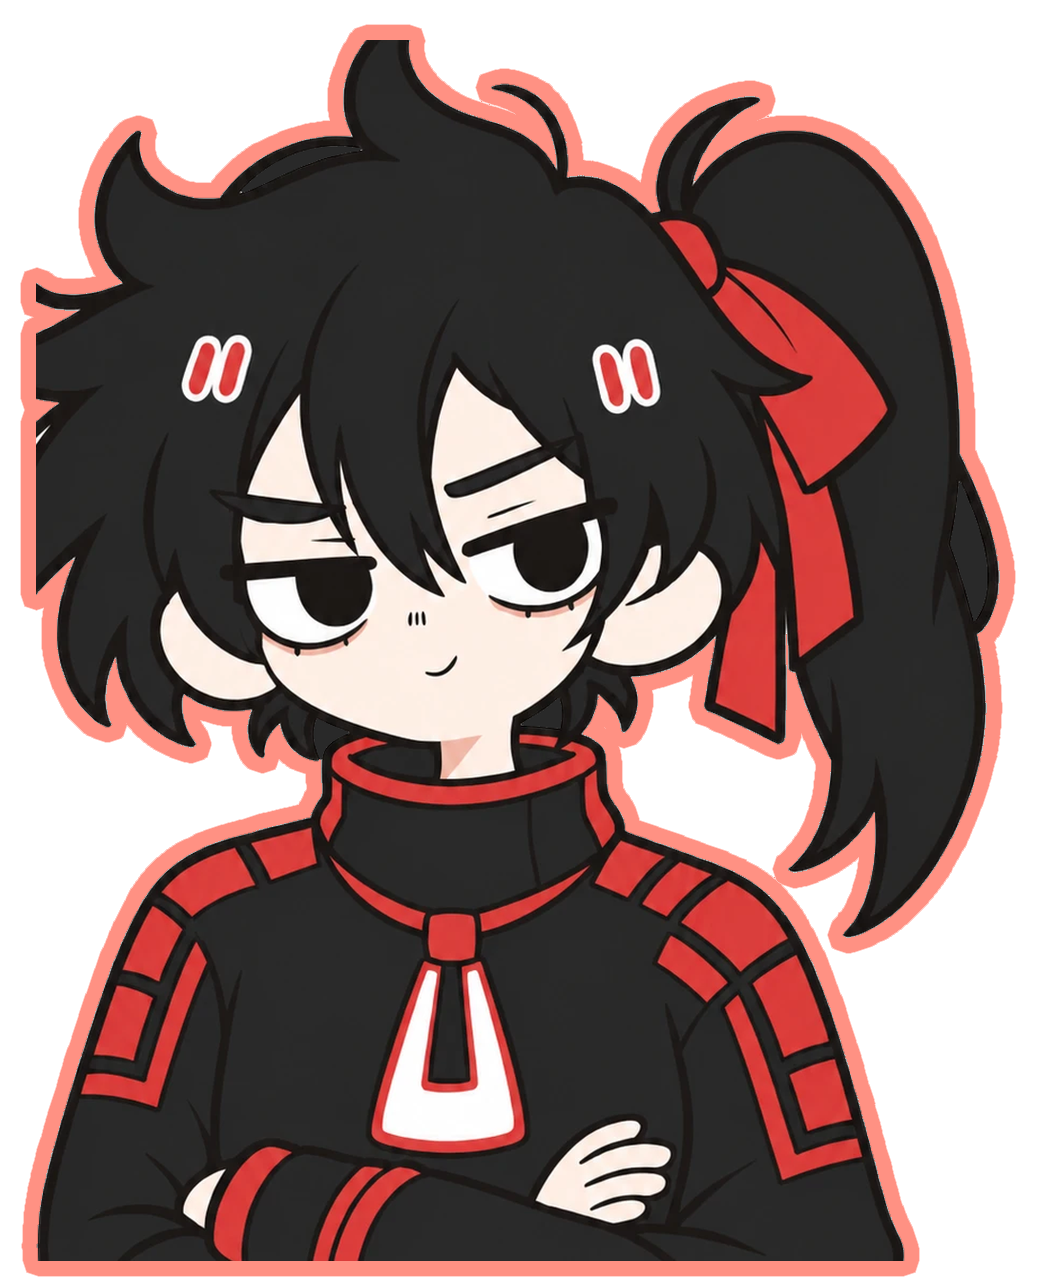
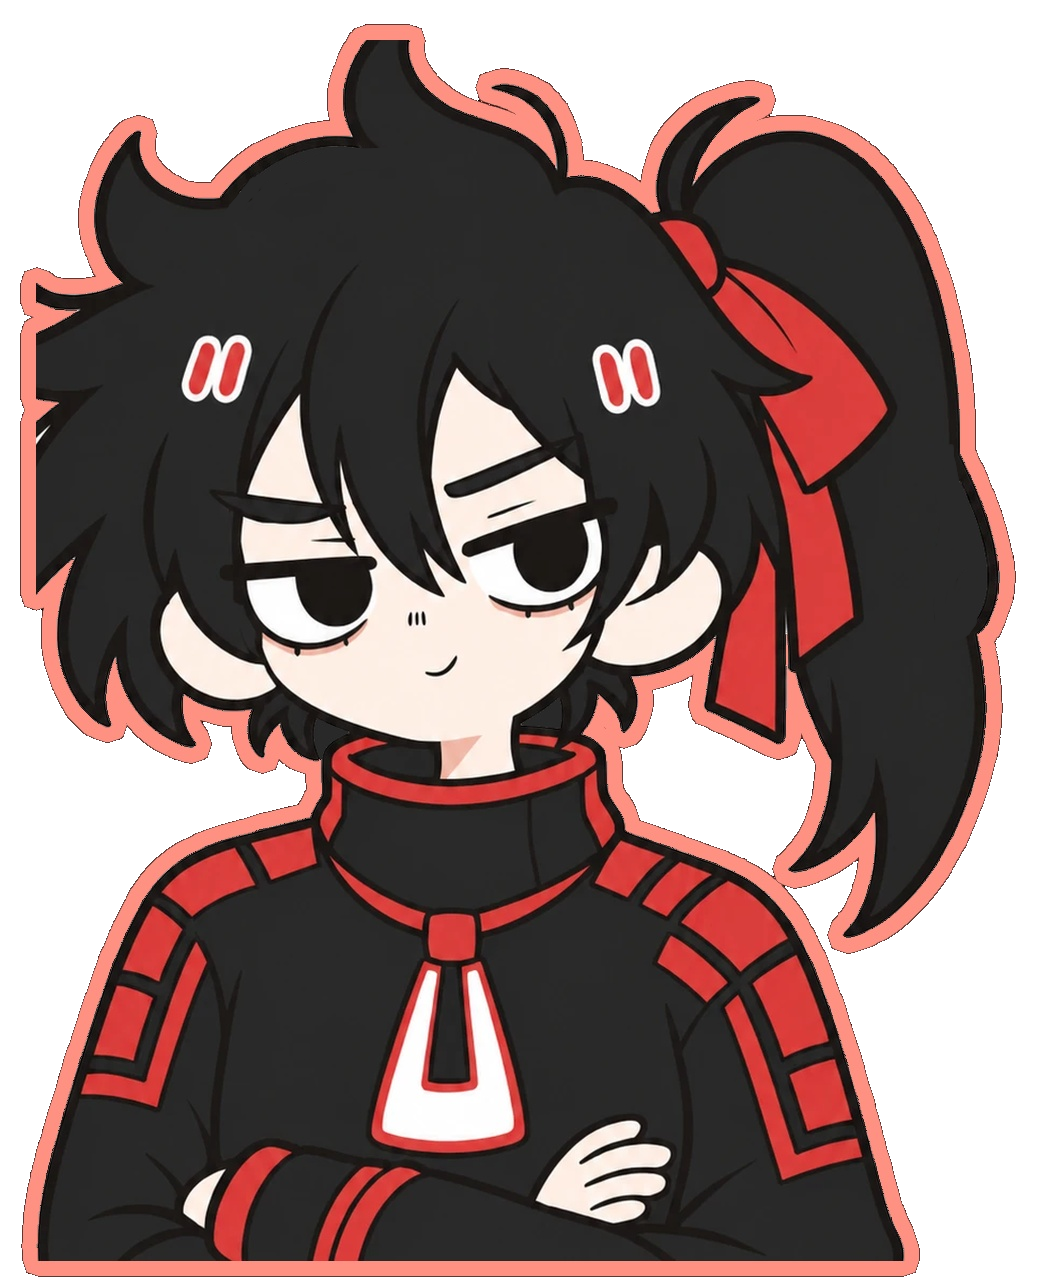
feat: UI 5종 · 앨범 6장 · 초상화 4장 교체 + 9번 진열장 회수
UI — Paper/Wood 를 Hud.Panel 에 꽂았다. 그 한 함수를 지나가는 모든 패널이
한꺼번에 바뀐다(레이스·로비·캠퍼스·조작법·완주·단서). 그림이 없으면 예전처럼
단색으로 떨어지니 파일을 빼도 안 깨진다.

- 곰 발바닥 칩 + 손글씨 종이 카드 + 곰 귀를 Hud 에 모았다. 세 HUD 가 같은 칩과
  같은 카드를 그리니 한 군데에 둬야 셋이 같이 바뀐다
- 발바닥은 마우스로도 눌린다 — 키만 있으면 안 눌러본 사람에겐 없는 기능이다
  (G·TAB 에서 두 번 겪은 실수)
- Remote3(녹슨 버전)을 지웠다. Resources 는 쓰든 안 쓰든 빌드에 다 들어간다

초상화 — 이감 셋 + 세운 당황. 1050×1280 · 0.8203 · 크롭/테두리는 이미 돼 있어
검은 배경만 투명으로. 포니테일 아래 갇힌 검은 주머니(21k px)도 같이 지웠다.
선화는 얇아서(fill < 0.3) 안 걸린다.

앨범 — 여섯 장 1024×1112(0.92). 짝수라 펼침면 셋으로 딱 맞는다.

9번 진열장 — 제작자 결정으로 남기고 에필로그에 여섯 줄로 회수한다.
안에 무엇이 있었는지는 적지 않고 칸이 왜 비어 있는지까지만 — 관장이
프롤로그에서 「이따가 얘기하자」로 피하던 것과 같은 사람이고, 앨범의
〈01_빈자리〉 그림이 같은 말을 한다.

Changed region(s): [[0.4571, 0.0625, 0.4876, 0.0938]]

diff --git a/Assets/Scripts/Hud.cs b/Assets/Scripts/Hud.cs
@@ -71,9 +71,13 @@ public static class Hud
         builtWith = font;
         built = true;
 
-        WoodTex     = Solid(Wood);
+        // ★★ 2026-10-12 — <b>그림이 있으면 그걸 쓴다.</b> 없으면 예전처럼 단색 한 점으로
+        //   떨어진다 — 파일을 빼도 HUD 가 안 깨진다.
+        //   이 두 줄이 <see cref="Panel"/> 을 지나는 <b>모든 패널</b>을 한꺼번에 바꾼다 —
+        //   레이스·로비·캐퍼스·조작법·완주·단서 카드까지.
+        WoodTex     = Resources.Load<Texture2D>("UI/Wood")  ?? Solid(Wood);
         WoodDarkTex = Solid(WoodDark);
-        PaperTex    = Solid(Paper);
+        PaperTex    = Resources.Load<Texture2D>("UI/Paper") ?? Solid(Paper);
         BrassTex    = Solid(Brass);
         RibbonTex   = Solid(Ribbon);
 
@@ -207,6 +211,80 @@ public static class Hud
         GUI.DrawTexture(r, PaperTex);
         GUI.DrawTexture(new Rect(r.x, r.yMax - 2f, r.width, 2f), WoodDarkTex);
     }
+
+    // ── 곤 발바닥 버튼·손글씨 종이·곤 귀 ─────────────────────────────────
+    //
+    //  ★★ 2026-10-12 — 세 HUD 가 <b>같은 칩과 같은 카드</b>를 그린다. 여기 한 군데에
+    //  두면 한 번 고쳐 셋이 같이 바뀜다 — 팔레트를 <c>Hud</c> 에 모아 둔 것과 같은 이유다.
+    //  ★ 그림이 없으면 전부 예전 모양으로 떨어진다.
+
+    static Texture2D pawTex, earsTex, noteTex;
+    static bool uiTried;
+
+    static void LoadUi()
+    {
+        if (uiTried) return;
+        uiTried = true;
+        pawTex  = Resources.Load<Texture2D>("UI/Paw");
+        earsTex = Resources.Load<Texture2D>("UI/Ears");
+        noteTex = Resources.Load<Texture2D>("UI/Note");
+    }
+
+    public static Texture2D PawTex  { get { LoadUi(); return pawTex;  } }
+    public static Texture2D EarsTex { get { LoadUi(); return earsTex; } }
+    public static Texture2D NoteTex { get { LoadUi(); return noteTex; } }
+
+    /// <summary>
+    /// 조작법 칩. 곤 발바닥이 있으면 그걸 앞에 두고, 없으면 「H」 글자만.
+    /// <b>마우스로도 눌린다</b> — 누른 것을 <c>true</c> 로 돌려준다.
+    /// </summary>
+    public static bool PawChip(Rect r, string label = "조작법")
+    {
+        LoadUi();
+        Chip(r);
+        float pad = 6f;
+        if (pawTex != null)
+        {
+            float s = r.height - pad * 2f;
+            GUI.DrawTexture(new Rect(r.x + pad, r.y + pad, s, s), pawTex, ScaleMode.ScaleToFit, true);
+            GUI.Label(new Rect(r.x + pad + s + 5f, r.y + 3f, r.width - pad - s - 8f, 18f),
+                      label, Resize(Text, 13));
+        }
+        else
+        {
+            GUI.Label(new Rect(r.x + 9f, r.y + 3f, r.width - 14f, 18f), "H  " + label, Resize(Text, 13));
+        }
+
+        // 마우스는 화면 좌표라 가상 1280×720 으로 내려야 한다(태엽 회전축과 같은 함정)
+        var m = UnityEngine.InputSystem.Mouse.current;
+        if (m == null || !m.leftButton.wasPressedThisFrame) return false;
+        Vector2 v = m.position.ReadValue();
+        v = new Vector2(v.x / ScaleFactor, (Screen.height - v.y) / ScaleFactor);
+        return r.Contains(v);
+    }
+
+    /// <summary>
+    /// 손글씨 종이 카드. 그림이 있으면 한지 한 장, 없으면 <see cref="Panel"/>.
+    /// 같이 <b>곤 귀</b>를 언어 — 카드 위에 귀가 빼꿜 나오면 «고문» 이 된다.
+    /// </summary>
+    public static void NoteCard(Rect r)
+    {
+        LoadUi();
+        if (earsTex != null)
+        {
+            float ew = r.width * 0.30f, eh = ew * 0.5f;
+            GUI.DrawTexture(new Rect(r.center.x - ew * 0.5f, r.y - eh * 0.62f, ew, eh),
+                            earsTex, ScaleMode.ScaleToFit, true);
+        }
+        if (noteTex != null) GUI.DrawTexture(r, noteTex, ScaleMode.StretchToFill, true);
+        else Panel(r);
+    }
+
+    /// <summary>종이 카드 안쪽. 한지 테두리가 있어 <see cref="Inner"/> 보다 좀 더 물러난다.</summary>
+    public static Rect NoteInner(Rect r) =>
+        noteTex != null ? new Rect(r.x + r.width * 0.055f, r.y + r.height * 0.055f,
+                                   r.width * 0.89f, r.height * 0.89f)
+                        : Inner(r);
 
     /// <summary>종이에 그은 옅은 칸막이 줄.</summary>
     public static void Rule(float x, float y, float width)

diff --git a/Assets/Scripts/StoryScript.cs b/Assets/Scripts/StoryScript.cs
@@ -849,6 +849,19 @@ Narrate("첫 번째 주행이 시작됐다."),
             Say("이감", "박물관의 존망보다 변기가 먼저였군."),
             Say("세진", "넌 똥 안 싸고 사냐."),
 
+            // ★★ 2026-10-12 — <b>전시실 아홉 번째 칸을 회수하는 자리.</b>
+            //   그 칸은 <c>GallerySceneBuilder.MakeNinthCase</c> 로 지어져 있고
+            //   덮개가 바닥에 벗겨져 있다 — «아직 안 열었다» 가 아니라 «누가 이미 열었다».
+            //   <b>안에 무엇이 있었는지는 적지 않는다.</b> 칸이 왜 비어 있는지까지만 답한다 —
+            //   관장이 프롤로그에서 «이따가 얘기하자» 로 피했던 것과 같은 사람이고,
+            //   앱범의 〈01_빈자리〉 그림(선반 가운데 먼지 자국)가 같은 말을 한다.
+            Say("세운", "관장님. 전시실 아홉 번째 칸은 왜 비어 있어요?"),
+            Say("관장", "…덮개는 내가 벗겼다."),
+            Say("시우", "안에 있던 건요."),
+            Say("관장", "찾으면 넣으려고."),
+            Say("이감", "그래서 칸을 비워 둔 거예요?"),
+            Say("관장", "비워 두면 언젠가 채우게 되거든."),
+
             Say("세운", Mood.기쁨, "그래도… 다시 시끄러워져서 좋다."),
             Say("시우", "응."),
             Say("시우", "이 정도면 됐어."),

diff --git a/Assets/Scripts/CampusHUD.cs b/Assets/Scripts/CampusHUD.cs
@@ -202,15 +202,16 @@ public class CampusHUD : MonoBehaviour
                   $"{state}  ·  F 날기  ·  F8 클리어 전/후  ·  F1 로비", tiny);
 
         if (showControls) return;
-        var chip = new Rect(16f, h - 28f, 88f, 22f);
-        Hud.Chip(chip);
-        GUI.Label(new Rect(chip.x + 9f, chip.y + 3f, 78f, 18f), "H  조작법", Hud.Resize(Hud.Text, 13));
+        // ★ 곤 발바닥 버튼. H 로도 열리고 <b>마우스로도 눌린다</b> —
+        //   키만 있으면 안 눌러본 사람에겐 없는 기능이다(G·TAB 에서 두 번 겉은 실수).
+        var chip = new Rect(16f, h - 34f, 98f, 28f);
+        if (Hud.PawChip(chip)) showControls = !showControls;
     }
 
     void DrawControls(float w, float h)
     {
         var box = new Rect(w * 0.5f - 190f, h * 0.5f - 130f, 380f, 260f);
-        Hud.Panel(box);
+        Hud.NoteCard(box);
 
         GUI.Label(new Rect(box.x, box.y + 16f, box.width, 26f), "조작법", Hud.Title);
         Hud.Rule(box.x + 20f, box.y + 46f, box.width - 40f);

diff --git a/Assets/Scripts/LobbyHUD.cs b/Assets/Scripts/LobbyHUD.cs
@@ -377,15 +377,16 @@ public class LobbyHUD : MonoBehaviour
     void DrawCorner(float h)
     {
         if (showControls) return;
-        var chip = new Rect(16f, h - 28f, 88f, 22f);
-        Hud.Chip(chip);
-        GUI.Label(new Rect(chip.x + 9f, chip.y + 3f, 78f, 18f), "H  조작법", Hud.Resize(Hud.Text, 13));
+        // ★ 곤 발바닥 버튼. H 로도 열리고 <b>마우스로도 눌린다</b> —
+        //   키만 있으면 안 눌러본 사람에겐 없는 기능이다(G·TAB 에서 두 번 겉은 실수).
+        var chip = new Rect(16f, h - 34f, 98f, 28f);
+        if (Hud.PawChip(chip)) showControls = !showControls;
     }
 
     void DrawControls(float w, float h)
     {
         var box = new Rect(w * 0.5f - 200f, h * 0.5f - 168f, 400f, 336f);
-        Hud.Panel(box);
+        Hud.NoteCard(box);
 
         GUI.Label(new Rect(box.x, box.y + 14f, box.width, 24f), "조작법", Hud.Title);
         Hud.Rule(box.x + 20f, box.y + 40f, box.width - 40f);

diff --git a/Assets/Scripts/TestHUD.cs b/Assets/Scripts/TestHUD.cs
@@ -930,15 +930,16 @@ public class TestHUD : MonoBehaviour
         }
 
         if (showControls) return;
-        var chip = new Rect(16f, h - 28f, 88f, 22f);
-        Hud.Chip(chip);
-        GUI.Label(new Rect(chip.x + 9f, chip.y + 3f, 78f, 18f), "H  조작법", Hud.Resize(Hud.Text, 13));
+        // ★ 곤 발바닥 버튼. H 로도 열리고 <b>마우스로도 눌린다</b> —
+        //   키만 있으면 안 눌러본 사람에겐 없는 기능이다(G·TAB 에서 두 번 겉은 실수).
+        var chip = new Rect(16f, h - 34f, 98f, 28f);
+        if (Hud.PawChip(chip)) showControls = !showControls;
     }
 
     void DrawControls(float w, float h)
     {
         var box = new Rect(w * 0.5f - 200f, h * 0.5f - 157f, 400f, 314f);
-        Hud.Panel(box);
+        Hud.NoteCard(box);
 
         GUI.Label(new Rect(box.x, box.y + 16f, box.width, 26f), "조작법", Hud.Title);
         Hud.Rule(box.x + 20f, box.y + 46f, box.width - 40f);
